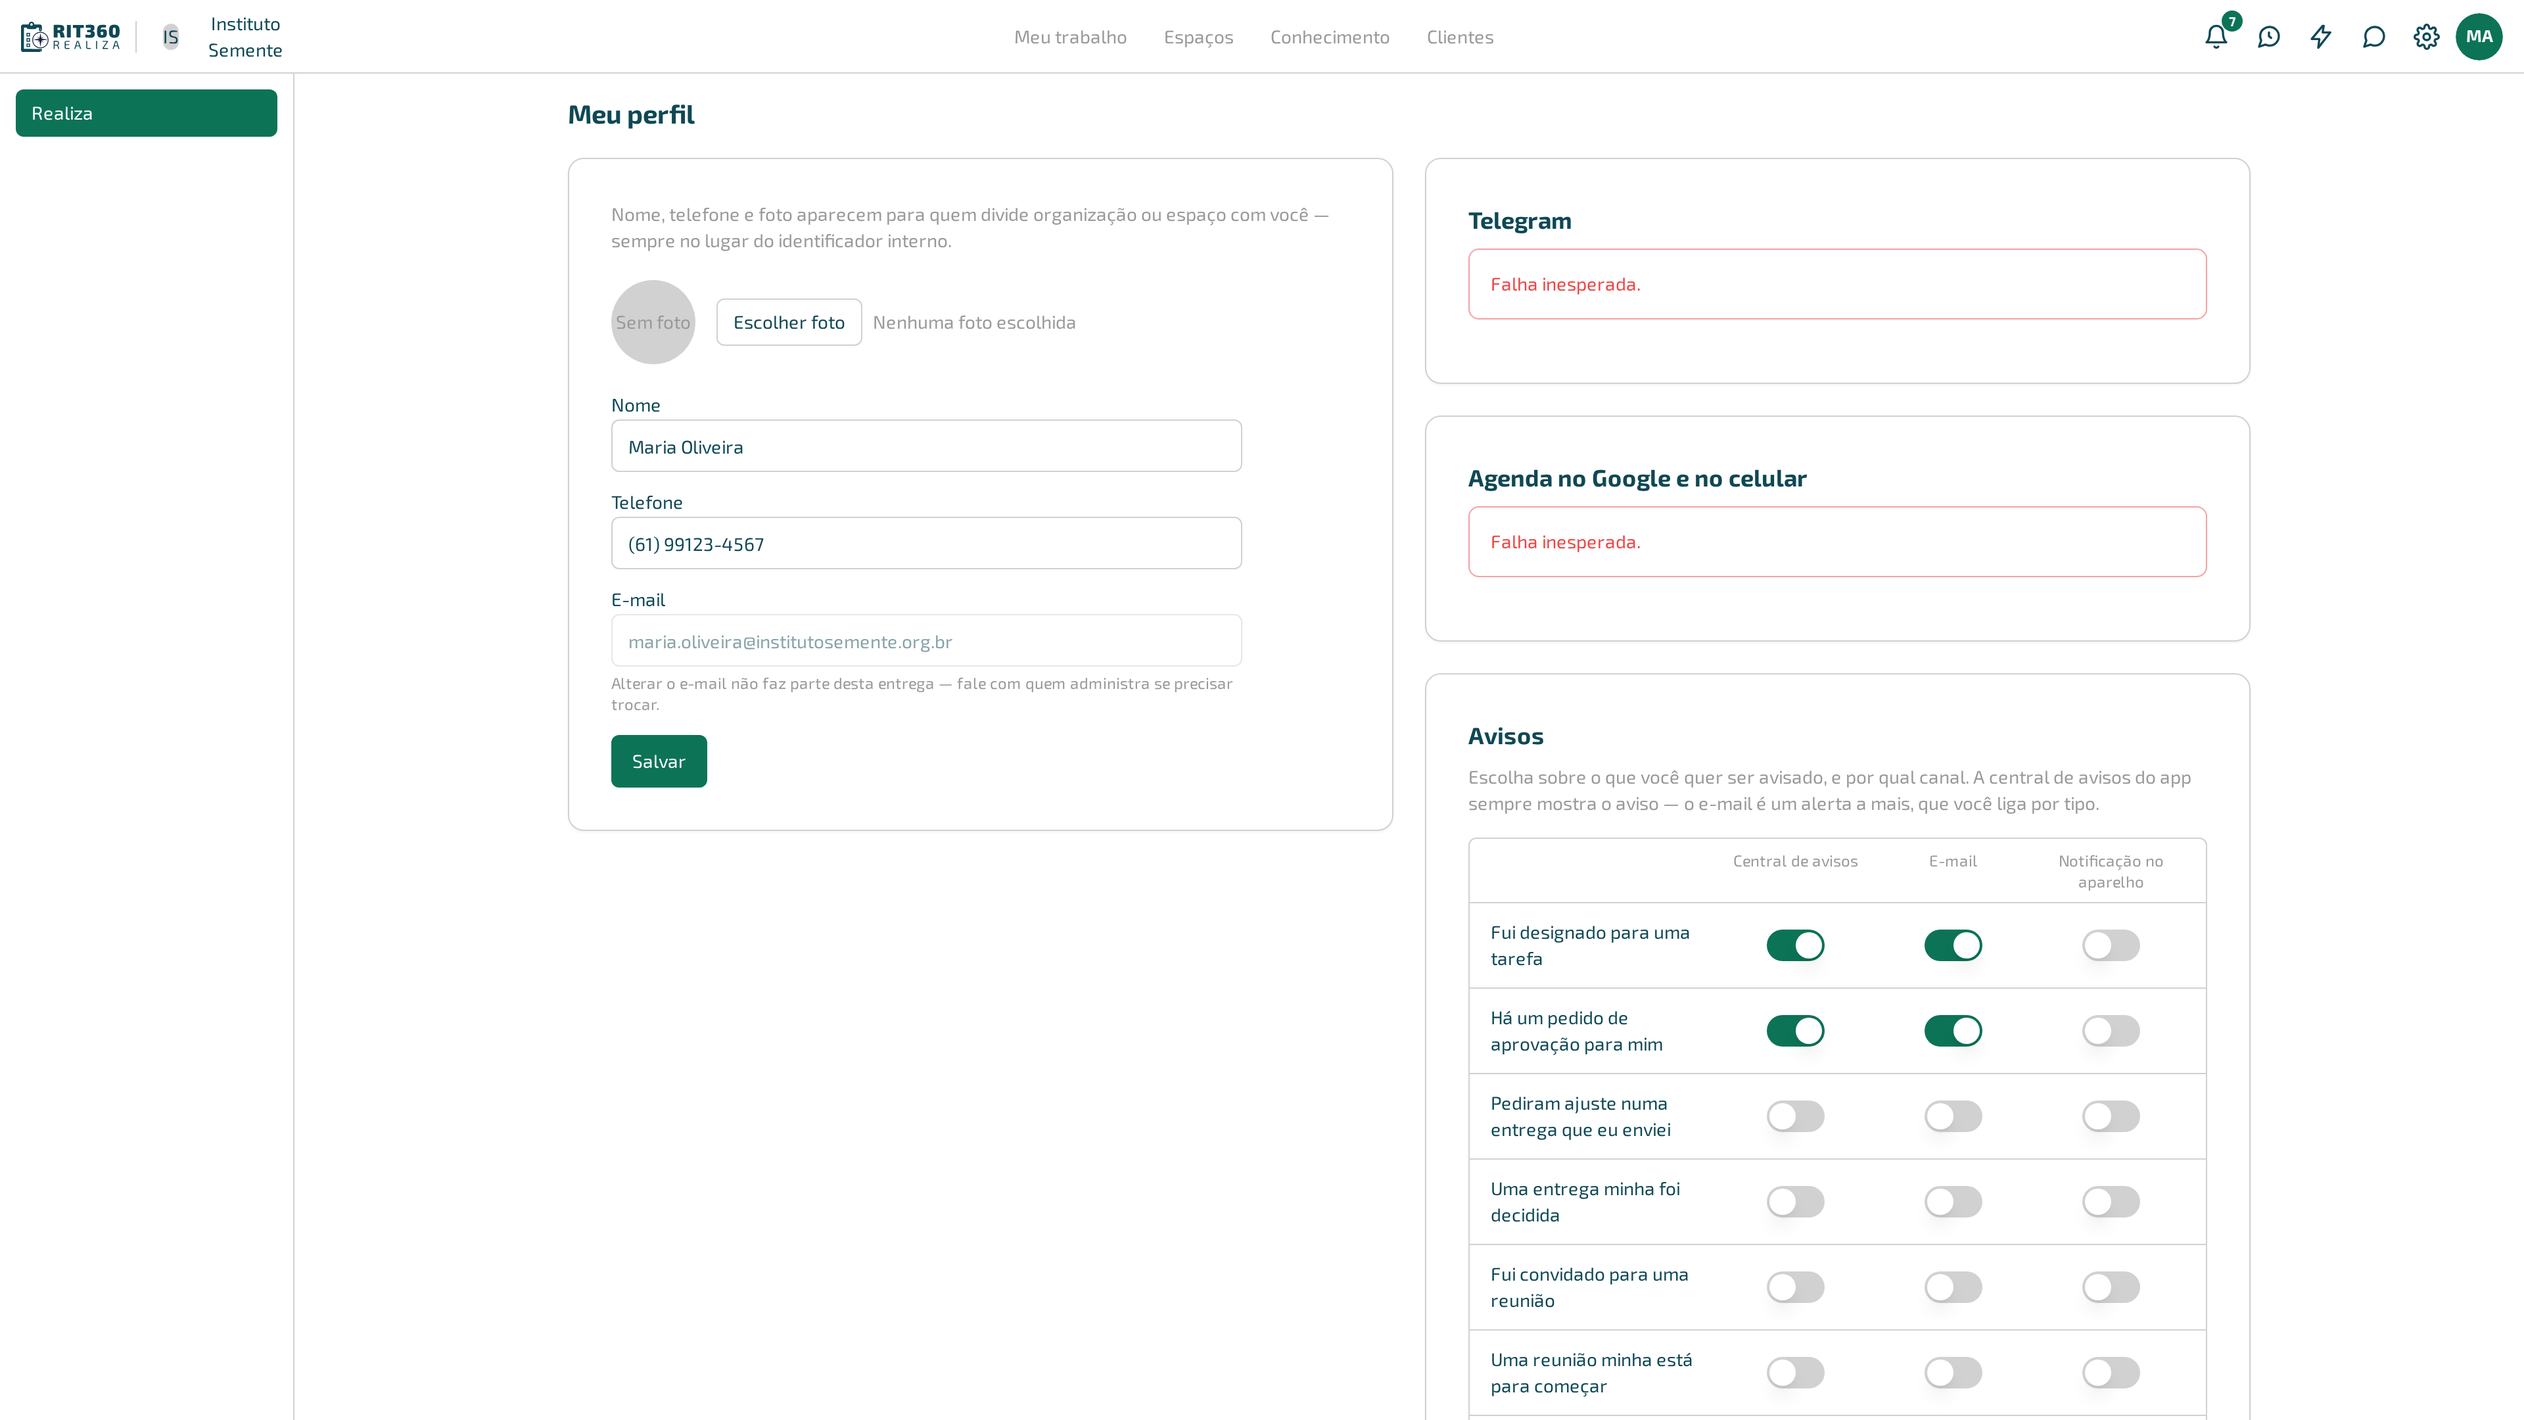
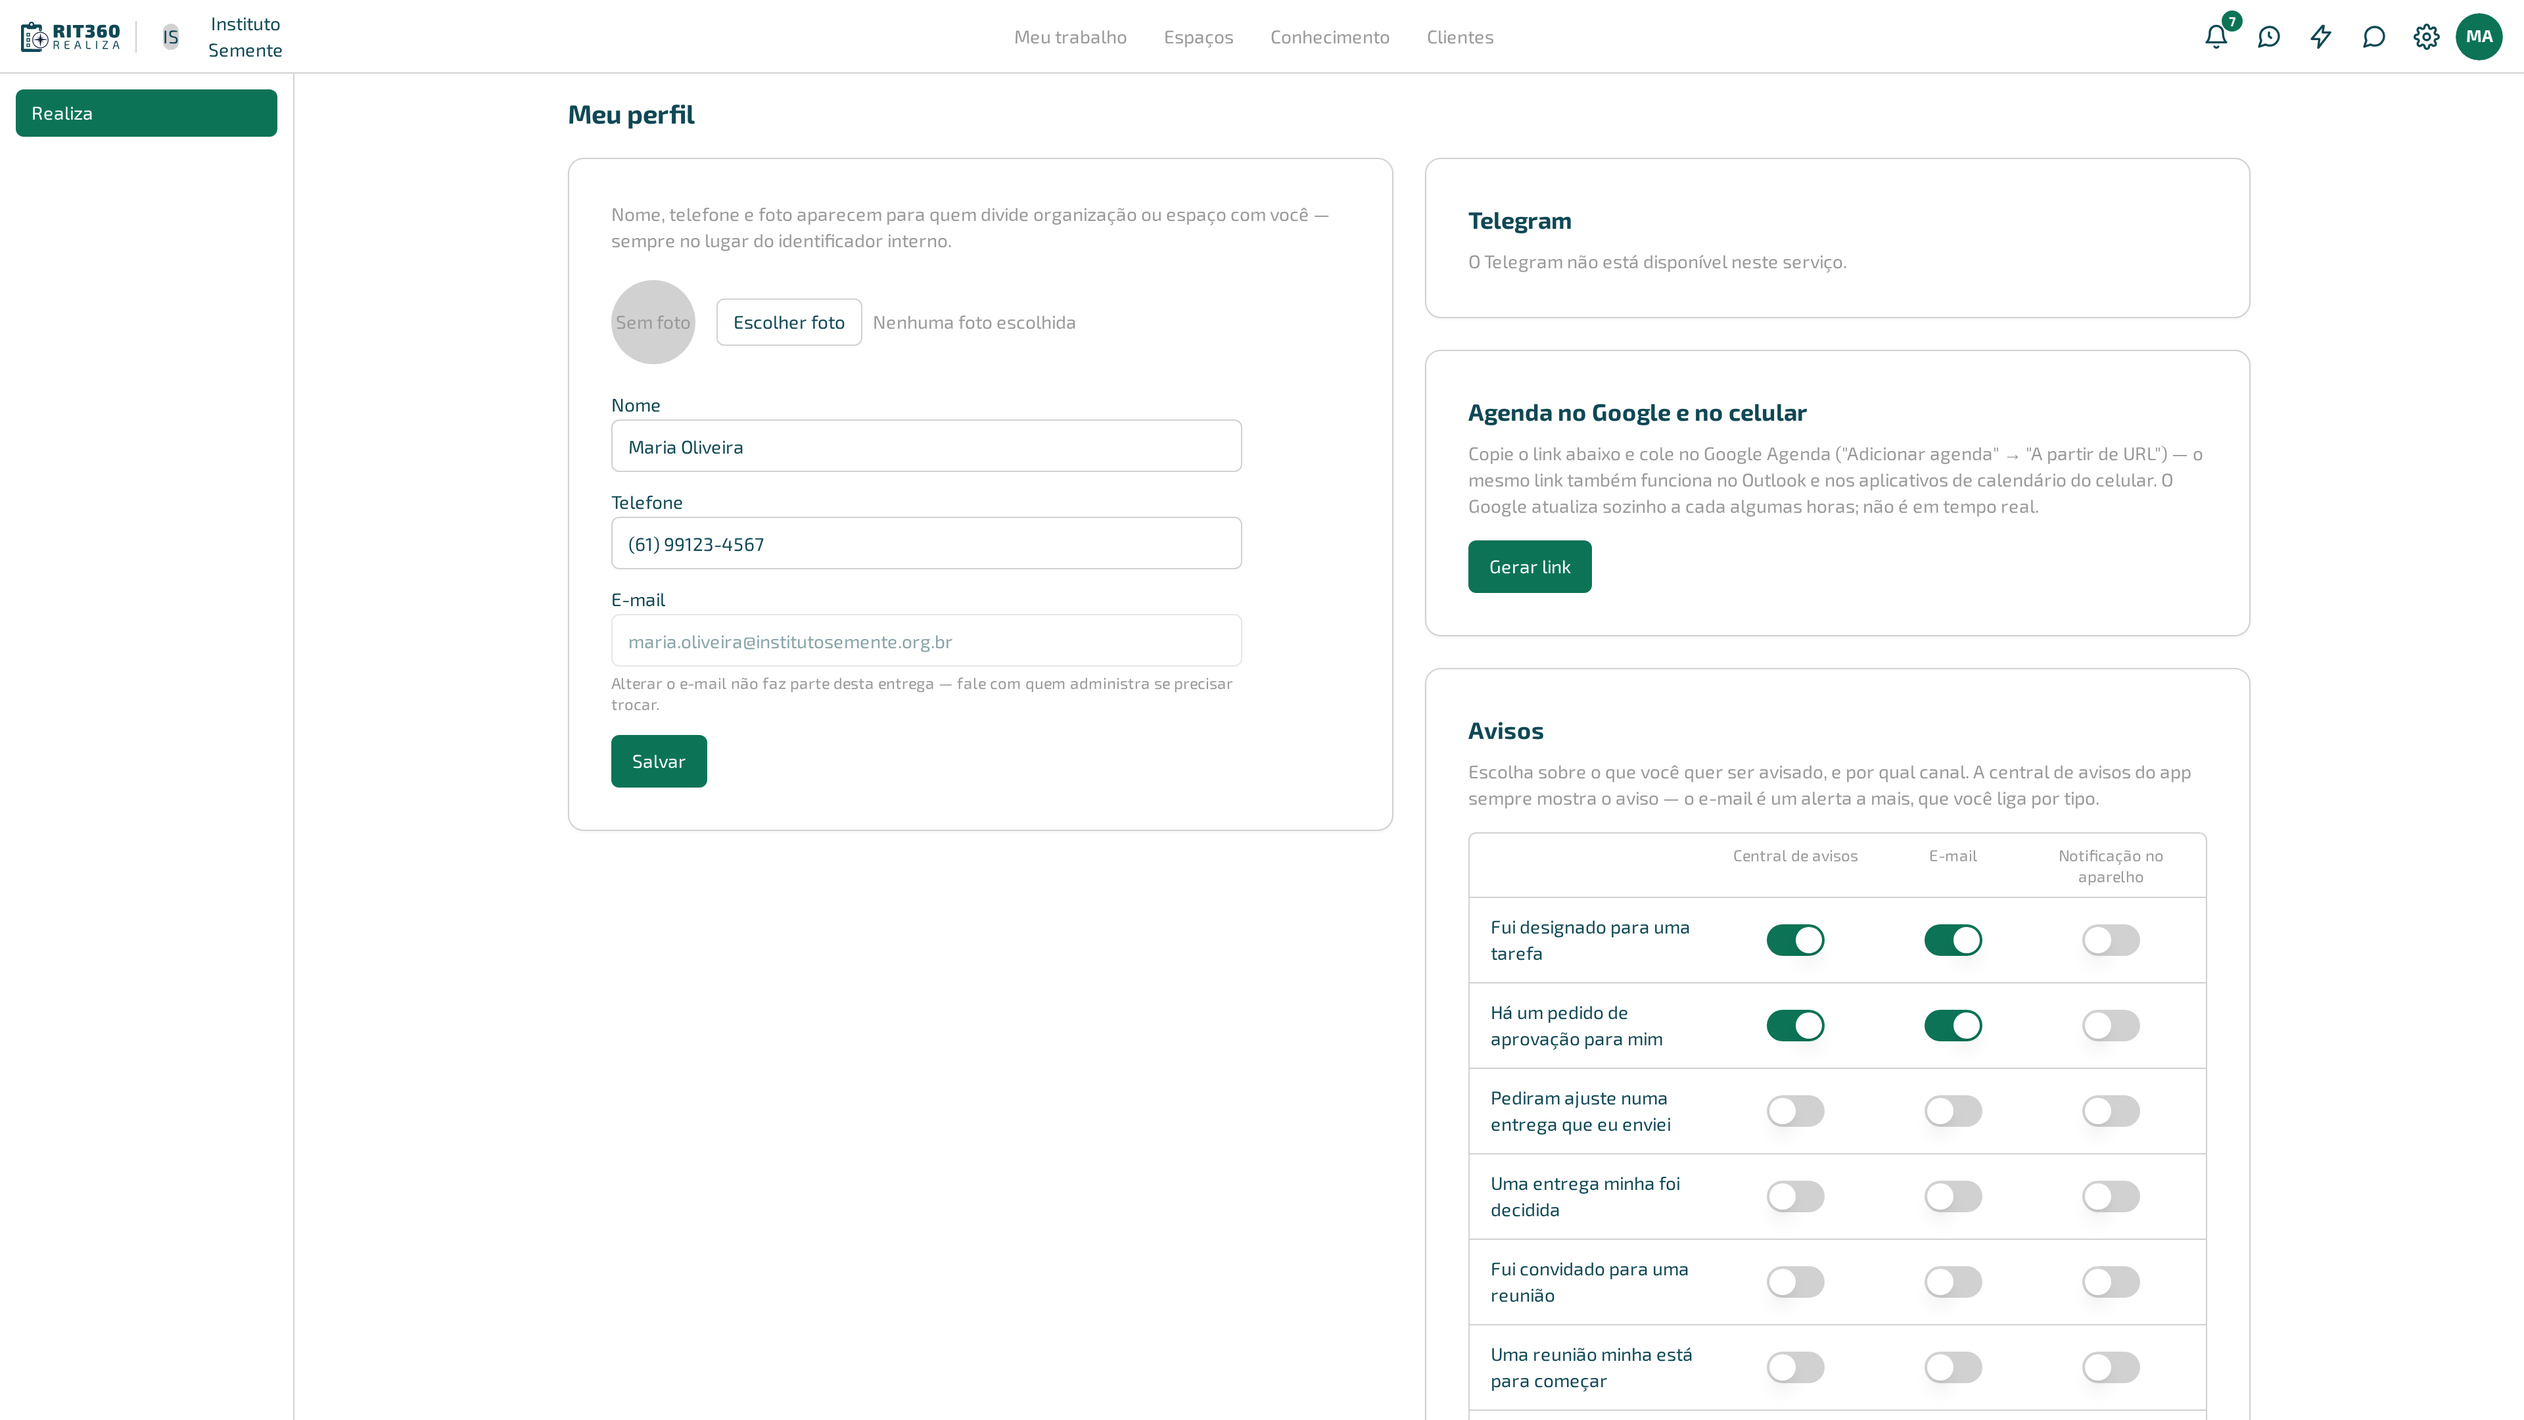
docs(manual): capturas de Conhecimento, perfil, consumo de IA e o resto da 0.10.2

diff --git a/conhecimento/wiki.md b/conhecimento/wiki.md
@@ -27,9 +27,12 @@ de um espaço, escolha a **"Visibilidade"**: **"Interno (só quem administra a o
 Clique em **"Salvar"** para gravar. Cada vez que você salva, nasce **uma versão nova** — nada se
 sobrescreve, e o texto de antes continua acessível no histórico.
 
-<!-- CAPTURA: rota=/conhecimento/wiki/:id | o-que-mostrar=editor de uma página de wiki com texto,
-     o seletor de visibilidade e o botão Salvar | arquivo=conhecimento-wiki-editor-desktop.png e
-     conhecimento-wiki-editor-celular.png -->
+![Editor de uma página de wiki, com texto, o seletor de Visibilidade e o botão Salvar](/assets/capturas/conhecimento-wiki-editor-desktop.png)
+{: .mt-4 }
+
+A mesma tela no celular:
+
+![Editor de uma página de wiki, com texto, o seletor de Visibilidade e o botão Salvar — no celular](/assets/capturas/conhecimento-wiki-editor-celular.png){: style="max-width:375px" }
 
 ## Ver o histórico e voltar a uma versão anterior
 
@@ -43,9 +46,12 @@ salva. Para voltar a uma versão antiga:
 Restaurar nunca apaga nada — mesmo o texto atual (o que você está prestes a substituir) continua
 guardado no histórico, como a versão anterior a essa restauração.
 
-<!-- CAPTURA: rota=/conhecimento/wiki/:id | o-que-mostrar=cartão "Histórico" com pelo menos três
-     versões listadas | arquivo=conhecimento-wiki-historico-desktop.png e
-     conhecimento-wiki-historico-celular.png -->
+![Cartão "Histórico" da página de wiki, com três versões listadas](/assets/capturas/conhecimento-wiki-historico-desktop.png)
+{: .mt-4 }
+
+A mesma tela no celular:
+
+![Cartão "Histórico" da página de wiki, com três versões listadas — no celular](/assets/capturas/conhecimento-wiki-historico-celular.png){: style="max-width:375px" }
 
 ## Excluir uma página
 
@@ -76,9 +82,12 @@ pessoa específica — voluntário, beneficiário, doador — não deve entrar n
 vez publicado, esse dado fica acessível para qualquer um com o link, mesmo que a página seja
 despublicada depois (quem já acessou pode ter guardado uma cópia).
 
-<!-- CAPTURA: rota=/p/<token> | o-que-mostrar=uma página pública de wiki aberta sem sessão, título
-     e conteúdo visíveis | arquivo=conhecimento-wiki-pagina-publica-desktop.png e
-     conhecimento-wiki-pagina-publica-celular.png -->
+![Página pública de wiki aberta sem sessão, com título e conteúdo visíveis](/assets/capturas/conhecimento-wiki-pagina-publica-desktop.png)
+{: .mt-4 }
+
+A mesma tela no celular:
+
+![Página pública de wiki aberta sem sessão, com título e conteúdo visíveis — no celular](/assets/capturas/conhecimento-wiki-pagina-publica-celular.png){: style="max-width:375px" }
 
 ### Se a página é editada depois de publicada
 

diff --git a/configuracoes/perfil.md b/configuracoes/perfil.md
@@ -34,7 +34,12 @@ que torna o Realiza legível para quem trabalha com você.
 2. Formatos aceitos: PNG, JPEG ou WEBP.
 3. Para remover a foto atual, clique em **"Remover foto"**.
 
-<!-- CAPTURA: rota=/perfil | o-que-mostrar=coluna esquerda com nome/telefone/foto preenchidos e coluna direita com Telegram, agenda e avisos | arquivo=perfil-duas-colunas-desktop.png e perfil-duas-colunas-celular.png -->
+![Tela Meu perfil, em duas colunas: nome/telefone/foto à esquerda, Telegram e Agenda no Google e no celular à direita](/assets/capturas/perfil-duas-colunas-desktop.png)
+{: .mt-4 }
+
+A mesma tela no celular:
+
+![Tela Meu perfil, em duas colunas: nome/telefone/foto à esquerda, Telegram e Agenda no Google e no celular à direita — no celular](/assets/capturas/perfil-duas-colunas-celular.png){: style="max-width:375px" }
 
 ## Por que o e-mail não se edita aqui
 
@@ -91,7 +96,12 @@ A coluna **"Notificação no aparelho"** é o interruptor por tipo — ela só t
 você ativa as notificações **neste aparelho**, no bloco logo acima da lista. Sem ativar o
 aparelho, ligar o interruptor não faz nada chegar.
 
-<!-- CAPTURA: rota=/perfil#preferencias-de-avisos | o-que-mostrar=tabela de tipos de aviso por canal, com os quatro tipos novos visíveis | arquivo=perfil-avisos-tabela-desktop.png e perfil-avisos-tabela-celular.png -->
+![Tabela de tipos de aviso por canal, em Meu perfil, com os tipos novos visíveis](/assets/capturas/perfil-avisos-tabela-desktop.png)
+{: .mt-4 }
+
+A mesma tela no celular:
+
+![Tabela de tipos de aviso por canal, em Meu perfil, com os tipos novos visíveis — no celular](/assets/capturas/perfil-avisos-tabela-celular.png){: style="max-width:375px" }
 
 {: .warning }
 Desligar o e-mail de um tipo de aviso **não elimina a pendência**. Se Beatriz Lima desliga o

diff --git a/conhecimento/documentos.md b/conhecimento/documentos.md
@@ -25,9 +25,12 @@ Limite de 25 MB por arquivo. Aceita documento de escritório, imagem, PDF e comp
 **Executável é recusado, mesmo renomeado** — o produto confere o conteúdo real do arquivo, não só
 o nome.
 
-<!-- CAPTURA: rota=/conhecimento | o-que-mostrar=diálogo "Enviar arquivo" aberto, com o seletor de
-     visibilidade visível | arquivo=conhecimento-enviar-arquivo-desktop.png e
-     conhecimento-enviar-arquivo-celular.png -->
+![Diálogo "Enviar arquivo" aberto, com o seletor de Visibilidade](/assets/capturas/conhecimento-enviar-arquivo-desktop.png)
+{: .mt-4 }
+
+A mesma tela no celular:
+
+![Diálogo "Enviar arquivo" aberto, com o seletor de Visibilidade — no celular](/assets/capturas/conhecimento-enviar-arquivo-celular.png){: style="max-width:375px" }
 
 ## Guardar um link
 
@@ -71,9 +74,12 @@ ou mais selecionados, aparecem as ações em lote:
 - **"Mover para pasta atual"** — move todos os selecionados para a pasta que você está vendo agora.
 - **"Marcar compartilhado"** / **"Marcar interno"** — muda a visibilidade de todos de uma vez.
 
-<!-- CAPTURA: rota=/conhecimento | o-que-mostrar=lista de documentos com vários selecionados e a
-     barra de ações em lote (excluir, mover, marcar visibilidade) visível | arquivo=conhecimento-acoes-em-lote-desktop.png
-     e conhecimento-acoes-em-lote-celular.png -->
+![Lista de documentos com dois itens selecionados e a barra de ações em lote (excluir, mover, marcar visibilidade)](/assets/capturas/conhecimento-acoes-em-lote-desktop.png)
+{: .mt-4 }
+
+A mesma tela no celular:
+
+![Lista de documentos com dois itens selecionados e a barra de ações em lote (excluir, mover, marcar visibilidade) — no celular](/assets/capturas/conhecimento-acoes-em-lote-celular.png){: style="max-width:375px" }
 
 ## Exemplo
 

diff --git a/trabalho/indicadores.md b/trabalho/indicadores.md
@@ -55,9 +55,12 @@ um período:
 O ensaio é o que protege você de uma planilha com erro de formatação: nada entra no indicador
 antes de você ver exatamente o que vai entrar e o que a planilha tem de errado.
 
-<!-- CAPTURA: rota=/espacos/:id/indicadores | o-que-mostrar=painel de valores de um indicador com
-     o ensaio de importação de CSV mostrando linhas aceitas e recusadas | arquivo=indicadores-ensaio-csv-desktop.png
-     e indicadores-ensaio-csv-celular.png -->
+![Painel de valores de um indicador, com o ensaio de importação de CSV mostrando uma linha aceita e uma recusada](/assets/capturas/indicadores-ensaio-csv-desktop.png)
+{: .mt-4 }
+
+A mesma tela no celular:
+
+![Painel de valores de um indicador, com o ensaio de importação de CSV mostrando uma linha aceita e uma recusada — no celular](/assets/capturas/indicadores-ensaio-csv-celular.png){: style="max-width:375px" }
 
 Cada valor registrado mostra o período, o valor com a unidade, e a origem: **"à mão"** ou
 **"planilha"** — para você sempre saber de onde aquele número veio.

diff --git a/conhecimento/index.md b/conhecimento/index.md
@@ -31,9 +31,12 @@ Todo documento, link e página de wiki tem uma visibilidade:
 Quem não tem permissão ampla na organização — um convidado — só consegue criar e ver o
 **"Compartilhado"**; a opção "Interno" nem aparece para essa pessoa, porque o servidor recusaria.
 
-<!-- CAPTURA: rota=/conhecimento | o-que-mostrar=aba "Conhecimento" da organização, com as abas
-     internas "Documentos" e "Wiki" visíveis | arquivo=conhecimento-visao-geral-desktop.png e
-     conhecimento-visao-geral-celular.png -->
+![Tela Conhecimento da organização, com as abas internas Documentos e Wiki](/assets/capturas/conhecimento-visao-geral-desktop.png)
+{: .mt-4 }
+
+A mesma tela no celular:
+
+![Tela Conhecimento da organização, com as abas internas Documentos e Wiki — no celular](/assets/capturas/conhecimento-visao-geral-celular.png){: style="max-width:375px" }
 
 {: .note }
 Este manual descreve o que a tela faz hoje. Se você encontrar algo diferente, [nos avise pelo

diff --git a/primeiros-passos.md b/primeiros-passos.md
@@ -98,7 +98,12 @@ domínio do e-mail que você usou:
   serviço decidir. Você recebe um e-mail assim que houver decisão." Acontece quando o domínio do
   site informado é diferente do domínio do seu e-mail.
 
-<!-- CAPTURA: rota=/solicitacoes-organizacao/{id}/confirmar?verificador=... | o-que-mostrar=tela "Confirmação do pedido de organização" no desfecho de organização criada | arquivo=confirmacao-pedido-organizacao-desktop.png e confirmacao-pedido-organizacao-celular.png -->
+![Tela "Confirmação do pedido de organização", com a organização criada e o convite de acesso enviado](/assets/capturas/confirmacao-pedido-organizacao-desktop.png)
+{: .mt-4 }
+
+A mesma tela no celular:
+
+![Tela "Confirmação do pedido de organização", com a organização criada e o convite de acesso enviado — no celular](/assets/capturas/confirmacao-pedido-organizacao-celular.png){: style="max-width:375px" }
 
 ### Exemplo
 

diff --git a/configuracoes/inteligencia-artificial.md b/configuracoes/inteligencia-artificial.md
@@ -106,7 +106,12 @@ texto processado) e o custo estimado, mês a mês.
 
 Use as setas **"← Mês anterior"** e **"Mês seguinte →"** para navegar entre os meses.
 
-<!-- CAPTURA: rota=/organizacao/configuracoes | o-que-mostrar=cartão Consumo de IA desta organização, com a tabela por pessoa | arquivo=organizacao-ia-consumo-desktop.png e organizacao-ia-consumo-celular.png -->
+![Cartão "Consumo de IA desta organização", navegação por mês e aviso de que os números são estimativas](/assets/capturas/organizacao-ia-consumo-desktop.png)
+{: .mt-4 }
+
+A mesma tela no celular:
+
+![Cartão "Consumo de IA desta organização", navegação por mês e aviso de que os números são estimativas — no celular](/assets/capturas/organizacao-ia-consumo-celular.png){: style="max-width:375px" }
 
 {: .important }
 "Tokens e custo são ESTIMATIVAS (nenhum provedor devolve contagem exata) — não há franquia nem

diff --git a/admin-servico/provedores-de-ia.md b/admin-servico/provedores-de-ia.md
@@ -142,7 +142,12 @@ por modelo.
 franquia nem teto**: nenhuma organização é interrompida por causa do consumo dela. Esta tela
 serve para acompanhar, não para limitar.
 
-<!-- CAPTURA: rota=/admin-servico/ia | o-que-mostrar=cartão "Consumo de IA — todas as organizações", com pelo menos uma organização e uma linha de provedor/modelo | arquivo=admin-servico-consumo-ia-desktop.png e admin-servico-consumo-ia-celular.png -->
+![Cartão "Consumo de IA — todas as organizações", com a navegação por mês e o aviso de que os números são estimativas](/assets/capturas/admin-servico-consumo-ia-desktop.png)
+{: .mt-4 }
+
+A mesma tela no celular:
+
+![Cartão "Consumo de IA — todas as organizações", com a navegação por mês e o aviso de que os números são estimativas — no celular](/assets/capturas/admin-servico-consumo-ia-celular.png){: style="max-width:375px" }
 
 ### O que a tela mostra
 

diff --git a/admin-servico/tarefas.md b/admin-servico/tarefas.md
@@ -45,7 +45,12 @@ Cada rotina aparece num cartão, com:
 - Se o estado for **"Falhou"**, a mensagem de erro que a própria rotina
   reportou.
 
-<!-- CAPTURA: rota=/admin-servico/tarefas | o-que-mostrar=lista de rotinas com pelo menos uma "Falhou" (mostrando o botão "Reprocessar (<rótulo>)") e a rotina do espelho (mostrando "Conferir com a origem agora") | arquivo=admin-servico-tarefas-desktop.png e admin-servico-tarefas-celular.png -->
+![Tela Tarefas agendadas, com a rotina do espelho em "Falhou" mostrando o botão "Conferir com a origem agora"](/assets/capturas/admin-servico-tarefas-desktop.png)
+{: .mt-4 }
+
+A mesma tela no celular:
+
+![Tela Tarefas agendadas, com a rotina do espelho em "Falhou" mostrando o botão "Conferir com a origem agora" — no celular](/assets/capturas/admin-servico-tarefas-celular.png){: style="max-width:375px" }
 {: .mt-4 }
 
 {: .important }
